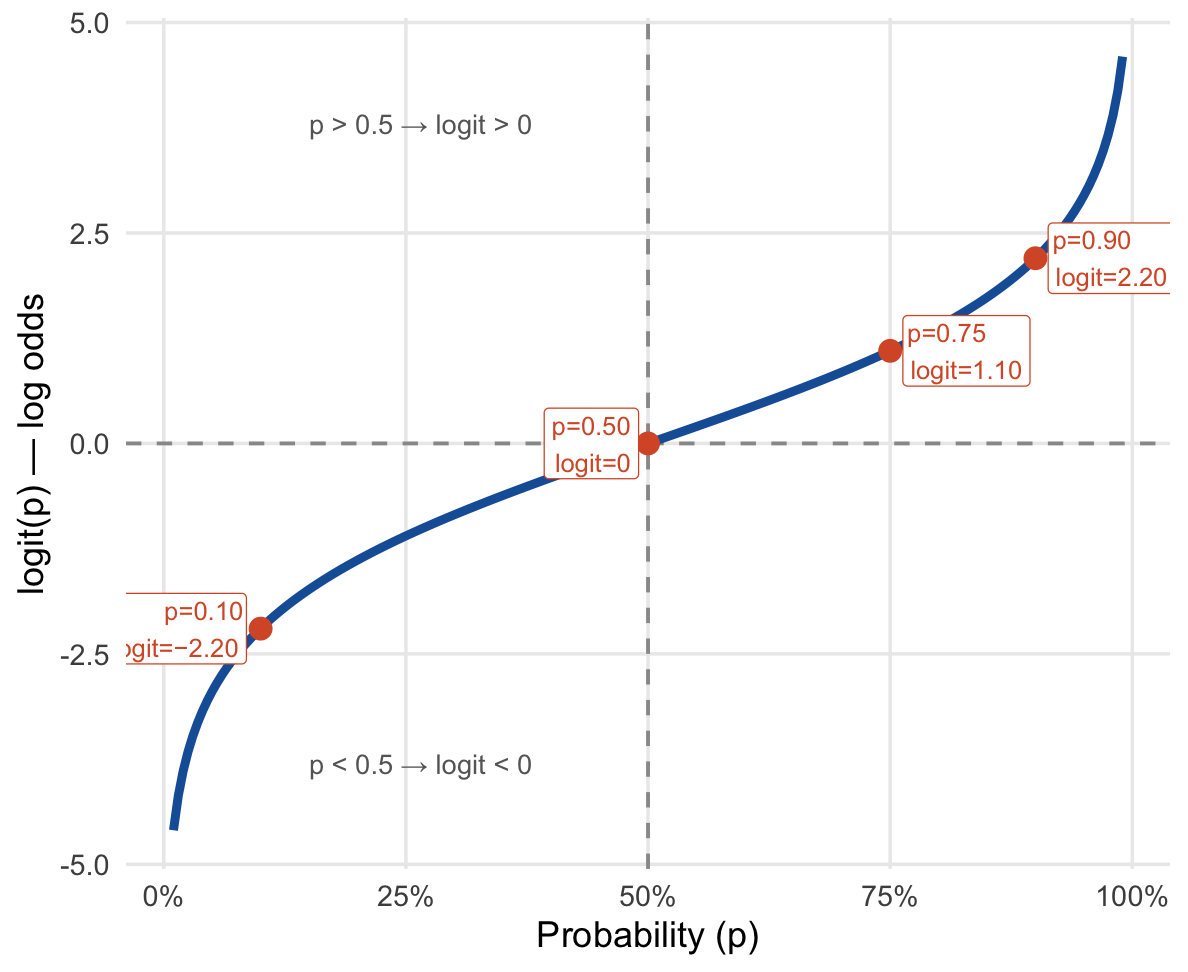
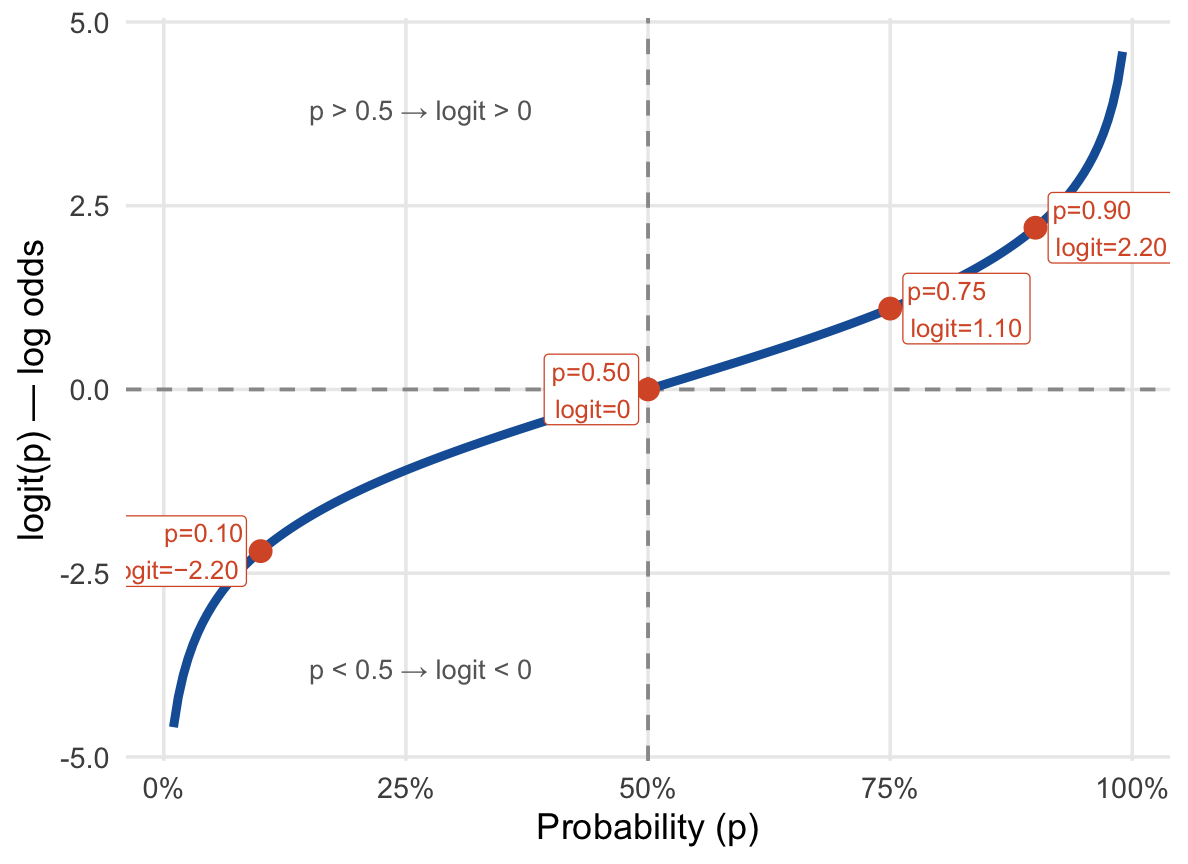
update week 9 slides

diff --git a/slides/css/ath-slides.css b/slides/css/ath-slides.css
@@ -548,3 +548,8 @@ Coloring and inverse coloring in title bars and content boxes
   background: #BF3984;
   color: #FFFFFF;
 }
+
+
+/* Compact variant for content-dense slides */
+.compact { font-size: 0.95em; }
+.compact p, .compact ul { margin-top: 0.4em; margin-bottom: 0.4em; }
